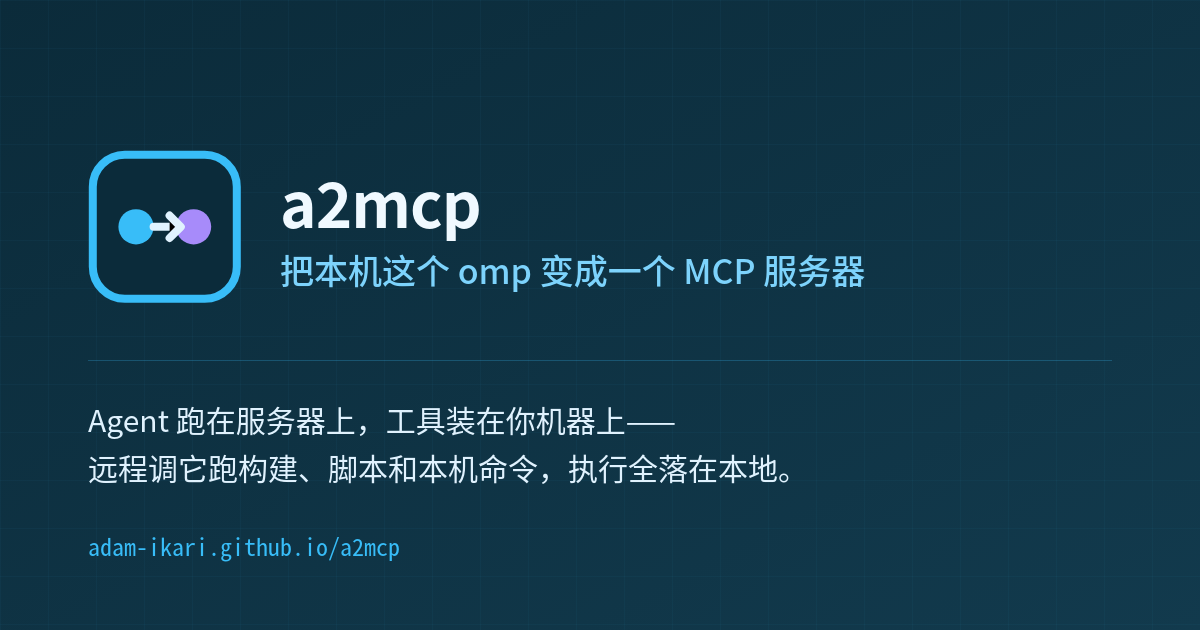
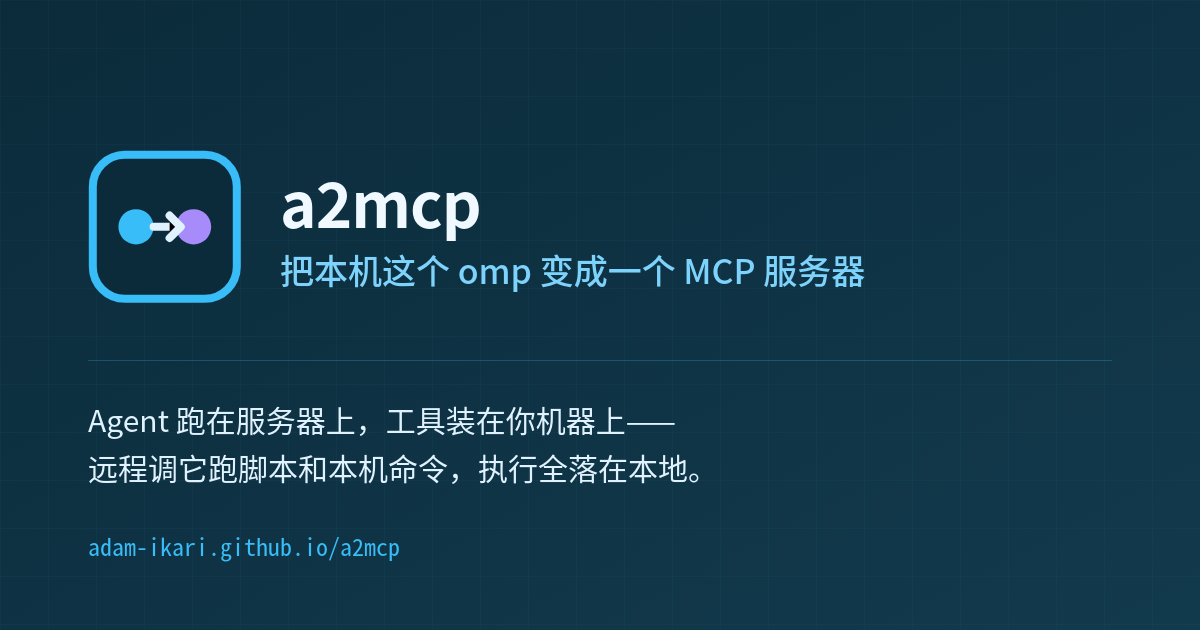
release: v0.10.2 提示词重写，共享双向、隧道复用、只用宿主已有工具

Changed region(s): [[0.185, 0.7238, 0.6475, 0.7841]]

diff --git a/src/instructions.ts b/src/instructions.ts
@@ -16,7 +16,7 @@ export const BRIDGE_INSTRUCTIONS = `You are connected over MCP to a live agent s
 
 Before you call a tool:
 - Read its input schema in \`tools/list\`. This host's \`edit\` takes a hashline patch (\`*** Begin Patch\`, \`[PATH#TAG]\`, \`PUT N.=M:\`, \`*** End Patch\`), where \`TAG\` is the 4-hex snapshot from your latest \`read\` — not \`oldString\`/\`newString\`. A guess comes back \`File not found\`; re-read after each edit.
-- Work one fact at a time: call, read the result, then decide. Use absolute paths; assume nothing about the host's \`PATH\` or setup.
+- Work one fact at a time: call, read the result, then decide. Use only the tools in \`tools/list\`; absolute paths; assume nothing about the host's \`PATH\`; do not install packages, create environments, or compile — run only what is already there.
 - Give every call a timeout of your own. A permission prompt there may have nobody to answer it.
 - What you run there stays there. The token is the only gate: never echo it into commands, files, or messages.
 

diff --git a/test/entry.test.ts b/test/entry.test.ts
@@ -435,9 +435,11 @@ describe("the a2mcp command", () => {
 		expect(out).toContain("https://github.com/adam-ikari/a2mcp");
 		expect(out).toContain("not in the installed package");
 		// General-purpose host: the prompt must not steer the model toward a device
-		// toolchain it may not have.
+		// toolchain it may not have, and must not let it build a new environment.
 		expect(out).not.toContain("device lab");
 		expect(out).not.toContain("adb");
+		expect(out).toContain("Use only the tools in `tools/list`");
+		expect(out).toContain("do not install packages, create environments, or compile");
 		// The two things a first caller gets wrong: the machine is real, so what it
 		// ran stays there; and file bytes move only over /xfer, never pasted into a
 		// command or carried in a tool argument.

diff --git a/test/server.test.ts b/test/server.test.ts
@@ -142,6 +142,7 @@ describe("server protocol", () => {
 			expect(guide).toContain("https://github.com/adam-ikari/a2mcp");
 			expect(guide).toContain("The share is bidirectional");
 			expect(guide).toContain("not a reverse tunnel");
+			expect(guide).toContain("do not install packages, create environments, or compile");
 			expect(guide).not.toContain("adb");
 			expect(guide).toContain("Do not start your own tunnel or second file server");
 			expect(guide).not.toContain(TOKEN);

diff --git a/CHANGELOG.md b/CHANGELOG.md
@@ -1,6 +1,6 @@
 # Changelog
 
-首个发布版：`v0.1.0`（git tag 与 GitHub Release）。**安装主路是 `omp install <git-url>`，不发布到 npm** —— 2026-10-20 曾把主路切到包名 `omp install a2mcp`（见那两节），同一天判据改口：不发包，主路回到 git URL；那段切 npm 的尝试记在历史里不重写，包名成为预留形态。可安装的 Release 现在是 `v0.10.1`（2026-10-26，只在文档与提示词里补上公网隧道路由的 Cloudflare 边缘请求体上限与大文件切片做法；协议面与 `v0.10.0` 相同），上一版是 `v0.10.0`（2026-10-24，取消请求体上限，删掉调用方代理，传文件交给 `curl` / `rclone` 这样的现成 WebDAV 客户端；`v0.9.0` 的代理只活了一版，见那节）：v0.1.0 与 v0.2.0 的 Release 已于 2026-10-16 撤下，`v0.2.1` 那份留着（它装得上，撤一个能用的入口不在那条发布卫生的判据里），历史 tag 全部保留（见 2026-10-16 那一节）。
+首个发布版：`v0.1.0`（git tag 与 GitHub Release）。**安装主路是 `omp install <git-url>`，不发布到 npm** —— 2026-10-20 曾把主路切到包名 `omp install a2mcp`（见那两节），同一天判据改口：不发包，主路回到 git URL；那段切 npm 的尝试记在历史里不重写，包名成为预留形态。可安装的 Release 现在是 `v0.10.2`（2026-10-26，提示词按首次调用重写并压短，写明共享双向、隧道复用与参考客户端自行克隆；协议面与 `v0.10.1` 相同），上一版是 `v0.10.1`（2026-10-26，只在文档与提示词里补上公网隧道路由的 Cloudflare 边缘请求体上限与大文件切片做法；协议面与 `v0.10.0` 相同），再上一版是 `v0.10.0`（2026-10-24，取消请求体上限，删掉调用方代理，传文件交给 `curl` / `rclone` 这样的现成 WebDAV 客户端；`v0.9.0` 的代理只活了一版，见那节）：v0.1.0 与 v0.2.0 的 Release 已于 2026-10-16 撤下，`v0.2.1` 那份留着（它装得上，撤一个能用的入口不在那条发布卫生的判据里），历史 tag 全部保留（见 2026-10-16 那一节）。
 
 本文按日期倒序分节（组内按依赖顺序）；面向使用者与开发者的变更，纯内部记忆提交（`brain:`）不收录。括号内为 commit 短 sha。已发布的版本有 `## v<版本>` 总览节；未发布的逐日演进全部平铺在上面。
 
@@ -8,12 +8,13 @@
 
 远端 agent 第一次调宿主的 `edit`，照常见形态传 `oldString` / `newString`，回来是 `File not found`：宿主的 `edit` 收的是 hashline patch（`*** Begin Patch`、`[PATH#TAG]`、`PUT N.=M:`），`TAG` 取最近一次 `read` 的快照。原来的提示词把传文件写了六步，这一条却不在里面；提示词越长，最先被读到的越是用不上的部分。
 
-- docs: `initialize.instructions` 重排并压短（3772 → 3300 字符），两份 README 的提示词块仍逐字同步。第一句改成调工具前先读 `tools/list` 里的入参 schema，紧接着点名 `edit` 的 hashline 形态与 `File not found`；调用规则（一次一件事、绝对路径、自带超时、副作用留痕、token 不进命令）接在后面；传文件从六步压到五步，`curl`、416、`PATCH` append、100 MB 边缘与切片拼接都在。最后一句补上参考客户端的取得方式：自行 `git clone https://github.com/adam-ikari/a2mcp` 再跑 `scripts/mcp-call.py`——它不在安装包里，原来的提示词只给路径，远端 agent 拿不到。
+- docs: `initialize.instructions` 重排并压短（3772 → 3414 字符），两份 README 的提示词块仍逐字同步。第一句改成调工具前先读 `tools/list` 里的入参 schema，紧接着点名 `edit` 的 hashline 形态与 `File not found`；调用规则（一次一件事、绝对路径、自带超时、副作用留痕、token 不进命令）接在后面；传文件从六步压到五步，`curl`、416、`PATCH` append、100 MB 边缘与切片拼接都在。最后一句补上参考客户端的取得方式：自行 `git clone https://github.com/adam-ikari/a2mcp` 再跑 `scripts/mcp-call.py`——它不在安装包里，原来的提示词只给路径，远端 agent 拿不到。
 - 修正: 提示词补两条行为约束，起因是调用方把共享读成只能下载，另起了一条反向隧道推文件。现在写明共享是双向的：GET 下载、PUT/PATCH 上传走同一个 `$ROUTE` 与 token，要发给宿主就 PUT 进共享，不要暴露自己的机器；`publicUrl` 是操作员已有的隧道，MCP 与 `/xfer/` 共用一条，为 `null` 时请操作员做端口转发（不是反向隧道）。
+- 修正: 提示词再补宿主使用边界：只能用 `tools/list` 里的工具；不装依赖、不建虚拟环境或容器、不编译，只跑本机已有的。两份 README 的「本机命令与挂载工具」与站点首页卡片同步，从「整条工具链」改成「本机已有的工具」；OG 图里的「跑构建」也删掉。
 - 反转: 提示词不再假定宿主是设备实验室。删掉「`adb`、烧录工具、串口走 `bash`」，改成「宿主是通用机器：命令在它自己的 `PATH` 上跑，别假设它的环境」。两份 README、站点「设备」页/导航/首页卡片与 OG 图同步改成「本机命令与挂载工具」；页面路径 `/devices` → `/commands`，示例 `adb devices` → `uname -a`。
 - site: 首页多一个「变更日志」按钮；传文件卡片补上 Cloudflare 100 MB 限制；单测数 281，场景探针 11 个叙事 / 85 步。
-- test: `bun test` 281 项 / 862 expect。`test/entry.test.ts` 与 `test/server.test.ts` 各加 hashline、通用机器、clone URL、双向共享与「不是反向隧道」的断言，并钉住提示词里没有 `adb` / `device lab`。
-- 版本位: 工具名、回包字段、路由都没动，变的只是 `initialize.instructions` 的措辞与顺序；按 v0.10.1 的先例进 patch 位，这一笔尚未发版。
+- test: `bun test` 281 项 / 865 expect。`test/entry.test.ts` 与 `test/server.test.ts` 各加 hashline、通用机器、clone URL、双向共享、「不是反向隧道」与「不装环境、不编译」的断言，并钉住提示词里没有 `adb` / `device lab`。
+- 版本位: 工具名、回包字段、路由都没动，变的只是 `initialize.instructions` 的措辞与顺序；按 v0.10.1 的先例进 patch 位，v0.10.2。
 
 ## 2026-10-26 — 公网隧道路由的请求体上限：按边缘切片，宿主侧拼接
 
@@ -464,6 +465,15 @@ pin 是撞上来的一件事：本机宿主自己升到了 18.12.1，`package.js
 - docs: 两份 README 加了一段**给远程 agent 的提示词**（站点「使用指南」页跟着生成）——远程 agent 会拿宿主的工具当自己熟悉的同名工具调，而 `tools/list` 回的是宿主注册表逐字，这台机器的 `edit` 是补丁语法（`[PATH#TAG]` 加 `PUT N.=M:`），实测猜错换来 `File not found`
 - release: 撤下 v0.1.0 与 v0.2.0 的 GitHub Release（`gh release delete`，不加 `--cleanup-tag`），**三个 tag 全留**。v0.2.0 在部分机器上装不上，标成 prerelease 或加一句说明，发布入口里都还留着这个装不上的东西，索性把它和更早那个一起撤掉，可用入口只留 v0.2.1；CHANGELOG 那两节按历史保留，开头补一句现状
 - 回归（18.11.0 上重跑）：`lint` / `tsc` / `bun test` 161/161；`tree` 3 项、`registry` 5490 行（18.10.4 上是 5487）、`smoke`、`hardening` 34 项、`blob` 35 项、`install` 33 项 `PACKAGE OK`、`scenario` 54 步 0 失败、`takeover` 34 项 62.0 秒、审批 `VERDICT: B`
+
+## v0.10.2 — 提示词按首次调用重写：先读 schema，共享写明双向，隧道写明复用
+
+**这一版只动 `initialize.instructions`、两份 README、站点文案与测试断言，协议面（工具名、回包字段、路由）与 v0.10.1 相同。** 远端 agent 第一次调宿主的 `edit` 时按常见形态传 `oldString` / `newString`，回来 `File not found`；提示词现在先让调用方读 `tools/list` 的入参 schema，并写明 hashline patch 的四个记号与每次编辑后重读。宿主不再被写成设备实验室：命令在它自己的 `PATH` 上跑，别假设环境；只用 `tools/list` 里的工具，不装依赖、不建环境、不编译，跑本机已有的。传文件补上两条行为约束，起因是调用方把共享读成只能下载、另起反向隧道推文件：同一共享 GET 下载、PUT/PATCH 上传；`publicUrl` 是操作员已有的隧道，MCP 与 `/xfer/` 共用一条，为 `null` 时请操作员做端口转发（不是反向隧道）。参考客户端 `scripts/mcp-call.py` 不在安装包里，提示词写明自行 `git clone` 取得。全文 3772 → 3414 字符。
+
+- 内容: 见上 2026-10-26 的「提示词按第一次调用会撞上的失败重排」一节。
+- 边界: 提示词是劝说，不是闸门。桥阻止不了调用方在它自己那侧开隧道，也阻止不了它执行装依赖、建环境或编译的命令；闸门仍是宿主自己的审批与工具权限。这次的行为证据是现场那次反向隧道与宿主上的环境操作，不是探针。
+- 升级: `omp install https://github.com/adam-ikari/a2mcp.git` 重装并重启宿主会话即可，token 与端口不动。客户端不用改 `mcp.json`；改的只是会读 `instructions` 的模型所见，以及站点文案。
+- 回归（发版前这一遍，2026-10-26，宿主 omp 18.12.1）: `bun test` 281 项 865 断言全绿（18 文件）；`lint` / `tsc` 干净；`tree` 3 项、`registry` 5497 行、`SMOKE OK`（22 个工具）、`HARDEN OK`、`SCENARIOS: 85 steps, 0 failed`、`takeover` 66.5 秒（inference POST=1、元数据非 POST=1）、审批 `VERDICT: B`（≥90001 ms 挂起、start=1 done=0）、`MCP-CALL OK`、`BOOTSTRAP OK`、`test:tunnel-xfer` PASS、`test:install` `PACKAGE OK`（npm 真装组按 `info:` 跳过）。`test:obtain` 的 `dufs` 半程通过，pinned `cloudflared` 收到 32.1 MB 后停在 30 秒无字节——与 v0.10.1 发版前同一种网络停顿，卡住的是取回；这一项退出码 1。
 
 ## v0.10.1 — 公网隧道侧的上限写进文档：大文件按边缘切片，宿主侧拼接
 

diff --git a/README.md b/README.md
@@ -235,7 +235,7 @@ You are connected over MCP to a live agent session on another machine. Its tools
 
 Before you call a tool:
 - Read its input schema in `tools/list`. This host's `edit` takes a hashline patch (`*** Begin Patch`, `[PATH#TAG]`, `PUT N.=M:`, `*** End Patch`), where `TAG` is the 4-hex snapshot from your latest `read` — not `oldString`/`newString`. A guess comes back `File not found`; re-read after each edit.
-- Work one fact at a time: call, read the result, then decide. Use absolute paths; assume nothing about the host's `PATH` or setup.
+- Work one fact at a time: call, read the result, then decide. Use only the tools in `tools/list`; absolute paths; assume nothing about the host's `PATH`; do not install packages, create environments, or compile — run only what is already there.
 - Give every call a timeout of your own. A permission prompt there may have nobody to answer it.
 - What you run there stays there. The token is the only gate: never echo it into commands, files, or messages.
 
@@ -324,7 +324,7 @@ A share that has to fetch waits for the fetch; the reply's `installed` names the
 
 The host passes two kinds of things through unchanged, and the bridge assumes nothing about this machine's setup.
 
-**Commands (`bash`).** Compilers, package managers and project scripts are not omp tools — they are commands on this machine. `bash` is in `tools/list`, so a remote client runs them directly; whatever is on `PATH` is reachable. Look before assuming a tool exists:
+**Commands (`bash`).** Existing commands on this machine are not omp tools. `bash` is in `tools/list`, so a remote client runs them directly; whatever is on `PATH` is reachable. Do not install packages, create virtualenvs or containers, or compile — that builds a new environment on the host instead of using the tools already there. Look before assuming a tool exists:
 
 ```json
 { "jsonrpc": "2.0", "id": 1, "method": "tools/call",

diff --git a/README_ZN.md b/README_ZN.md
@@ -202,7 +202,7 @@ You are connected over MCP to a live agent session on another machine. Its tools
 
 Before you call a tool:
 - Read its input schema in `tools/list`. This host's `edit` takes a hashline patch (`*** Begin Patch`, `[PATH#TAG]`, `PUT N.=M:`, `*** End Patch`), where `TAG` is the 4-hex snapshot from your latest `read` — not `oldString`/`newString`. A guess comes back `File not found`; re-read after each edit.
-- Work one fact at a time: call, read the result, then decide. Use absolute paths; assume nothing about the host's `PATH` or setup.
+- Work one fact at a time: call, read the result, then decide. Use only the tools in `tools/list`; absolute paths; assume nothing about the host's `PATH`; do not install packages, create environments, or compile — run only what is already there.
 - Give every call a timeout of your own. A permission prompt there may have nobody to answer it.
 - What you run there stays there. The token is the only gate: never echo it into commands, files, or messages.
 
@@ -291,7 +291,7 @@ token 放进环境变量，不要放进命令行：argv 在 `ps` 里可见。
 
 宿主那边有两类东西，桥都原样透传——桥不假设这台机器上有什么。
 
-**命令（`bash`）**。编译器、包管理器、项目脚本都不是 omp 的工具，是本机命令；`bash` 在 `tools/list` 里，远程直接跑，PATH 上有什么就有什么。先看再跑，不要按别的机器的习惯猜：
+**命令（`bash`）**。本机已有的命令不是 omp 的工具；`bash` 在 `tools/list` 里，远程直接跑，PATH 上有什么就用什么。不要装依赖、建虚拟环境、容器或编译——那是在宿主上造新环境，不是调用已有工具。先看再跑，不要按别的机器的习惯猜：
 
 ```json
 { "jsonrpc": "2.0", "id": 1, "method": "tools/call",
